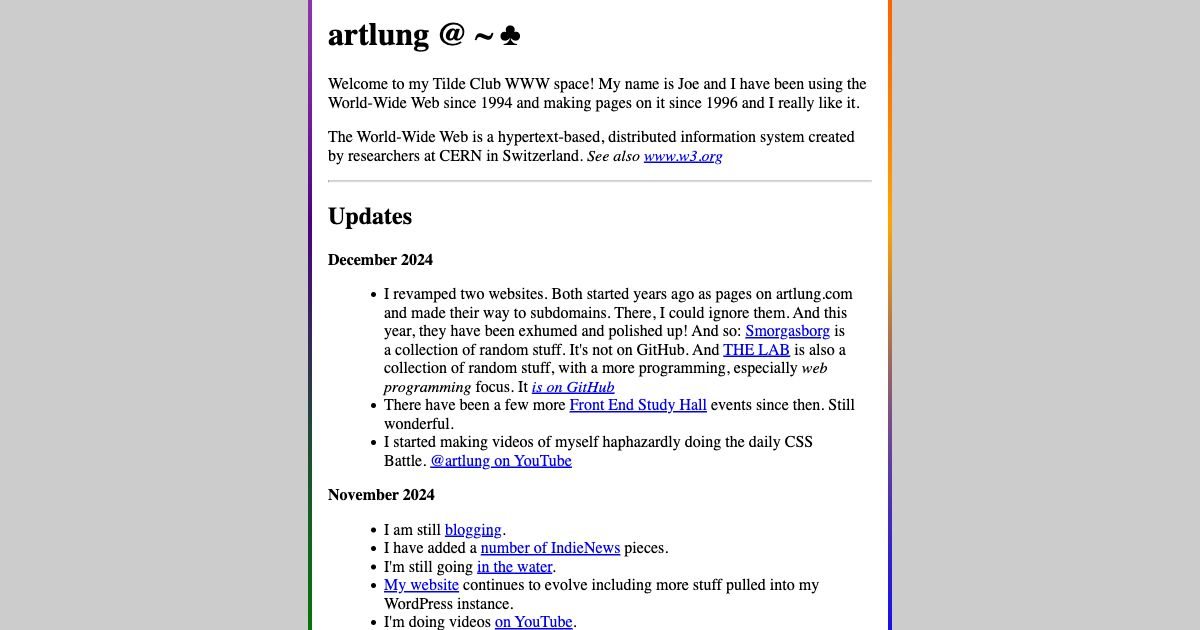
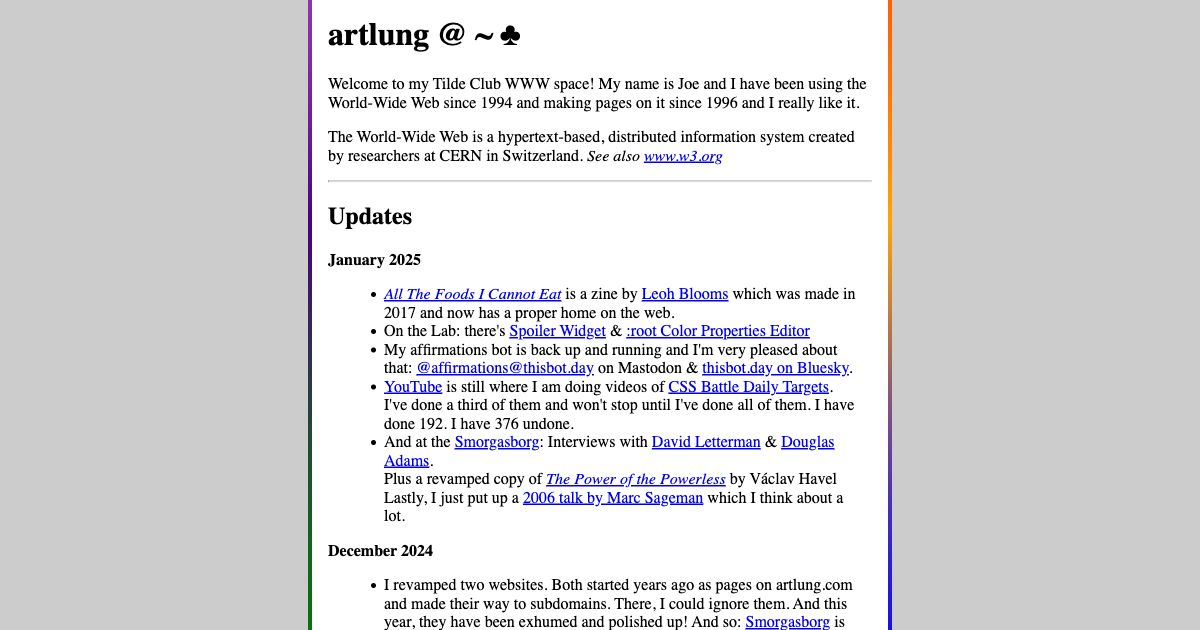
January 2025

Changed region(s): [[0.2775, 0.4524, 0.7092, 1.0], [0.2775, 0.3921, 0.37, 0.4222]]

diff --git a/public_html/index.php b/public_html/index.php
@@ -23,6 +23,37 @@ www.w3.org</A></I></P>
 <HR>
 <H2>Updates</H2>
 <DL>
+    <DT>January 2025</DT>
+    <DD>
+        <UL>
+            <LI>
+                <I><A href="http://smorgasborg.artlung.com/foods/">All The Foods I Cannot Eat</A></I> is a zine by <A href="https://leohblooms.com/">Leoh Blooms</A> which was made in 2017 and now has a proper home on the web.
+            </LI>
+            <LI>
+                On the Lab: there's
+                <A href="https://lab.artlung.com/spoiler/">Spoiler Widget</A> &amp;
+                <A href="https://lab.artlung.com/root-color-properties-editor/">:root Color Properties Editor</A>
+            </LI>
+            <LI>
+                My affirmations bot is back up and  running and I'm very pleased about that:
+                <A HREF="https://thisbot.day/@affirmations">@affirmations@thisbot.day</A> on Mastodon &amp;
+                <A HREF="https://bsky.app/profile/thisbot.day">thisbot.day on Bluesky</A>.
+            </LI>
+            <LI>
+                <A HREF="https://www.youtube.com/@artlung">YouTube</A> is still where  I am doing videos of <A href="https://cssbattle.dev/">CSS Battle Daily Targets</A>. I've done a third of them and won't stop until I've done all of them. I have done 192. I have 376 undone.
+            </LI>
+            <LI>
+                And at the <a href="https://smorgasborg.artlung.com/">Smorgasborg</a>:
+                Interviews with
+                <A HREF="https://smorgasborg.artlung.com/davidletterman/">David Letterman</A> &amp;
+                <A HREF="https://smorgasborg.artlung.com/douglasadams/">Douglas Adams</A>.<BR>
+                Plus a revamped copy of
+                <I><A HREF="https://smorgasborg.artlung.com/power-of-the-powerless/">The Power  of the Powerless</A></I> by Václav Havel<BR> Lastly, I just put up a
+                <A HREF="http://smorgasborg.artlung.com/sageman/">2006 talk by Marc Sageman</A> which I think about a lot.
+            </LI>
+        </UL>
+
+    </DD>
     <DT>December 2024</DT>
     <DD>
 
